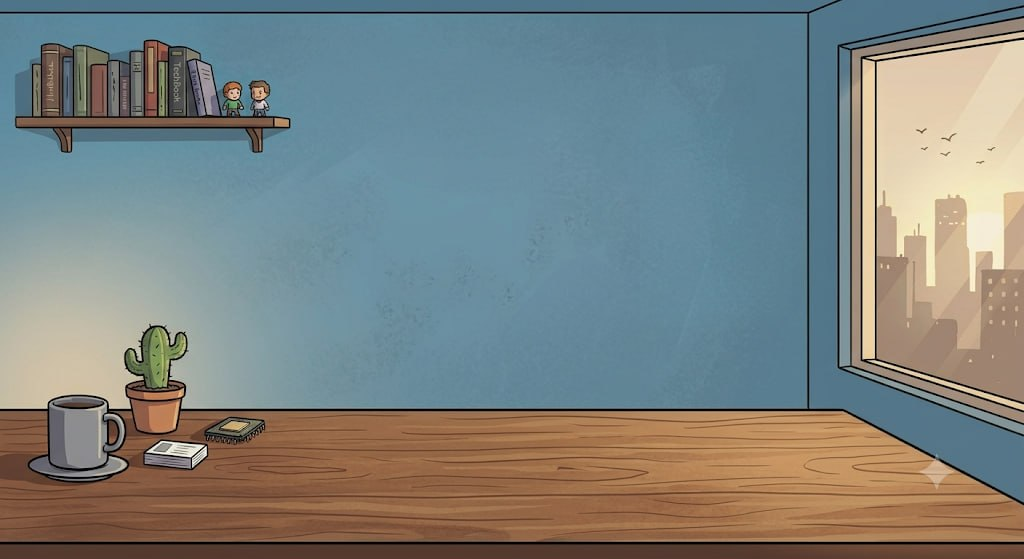
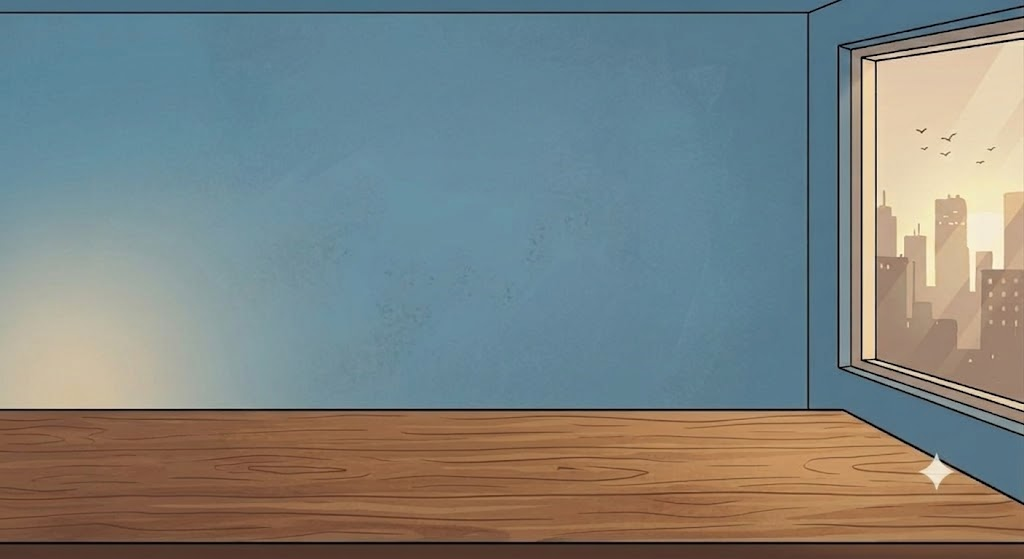
обнове еее

Changed region(s): [[0.0, 0.0608, 0.2812, 0.2737], [0.0, 0.5778, 0.2812, 0.8819], [0.9062, 0.8211, 0.9375, 0.8819]]

diff --git a/testprak/js/game.js b/testprak/js/game.js
@@ -849,7 +849,7 @@ class MainWorkspaceScene extends Phaser.Scene {
 
        // === КАНБАН-ДОСКА (В КОНТЕЙНЕРЕ) ===
         // Чтобы опустить доску еще ниже, увеличь цифру 80. Чтобы поднять — уменьши.
-        const boardContainer = this.add.container(25, 117);
+        const boardContainer = this.add.container(25, 35);
         boardContainer.setScale(0.85); 
 
         let shadowK = this.add.rectangle(235, 225, 380, 250, 0x000000, 0.2); 
@@ -876,17 +876,17 @@ class MainWorkspaceScene extends Phaser.Scene {
         // ===================================
 
         // === ВИЗУАЛ НОВОГО СПРАВОЧНИКА ===
-        const book = this.add.container(300, 610).setDepth(2);
+        const book = this.add.container(150, 610).setDepth(2);
         
         // --- СОЗДАЕМ ТЕНЬ ---
         const bookShadow = this.add.image(6, 8, 'spravochnik'); // Сдвиг (6, 8)
-        bookShadow.setScale(0.5); // Тот же масштаб
+        bookShadow.setScale(0.45); // Тот же масштаб
         bookShadow.setTint(0x000000); 
-        bookShadow.setAlpha(0.35); 
+        bookShadow.setAlpha(0.30); 
         
         // --- САМА КНИГА ---
         const bookImg = this.add.image(0, 0, 'spravochnik');
-        let baseScale = 0.5; 
+        let baseScale = 0.45; 
         bookImg.setScale(baseScale);
         
         // Добавляем тень ПЕРВОЙ в контейнер, чтобы она была под картинкой
@@ -899,17 +899,17 @@ class MainWorkspaceScene extends Phaser.Scene {
         book.input.cursor = 'pointer';
         // ===================================
         // === ВИЗУАЛ НОВОЙ СХЕМЫ СЕТИ ===
-        const networkMap = this.add.container(580, 610).setDepth(2);
+        const networkMap = this.add.container(380, 610).setDepth(2);
         
         // --- СОЗДАЕМ ТЕНЬ ---
         const mapShadow = this.add.image(5, 7, 'shemaseti'); // Сдвиг (5, 7)
-        mapShadow.setScale(0.4);
+        mapShadow.setScale(0.25);
         mapShadow.setTint(0x000000);
-        mapShadow.setAlpha(0.35);
+        mapShadow.setAlpha(0.20);
         
         // --- САМА СХЕМА ---
         const mapImg = this.add.image(0, 0, 'shemaseti');
-        let mapBaseScale = 0.4; 
+        let mapBaseScale = 0.25; 
         mapImg.setScale(mapBaseScale);
         
         // Добавляем тень ПЕРВОЙ в контейнер
@@ -1257,6 +1257,7 @@ class MainWorkspaceScene extends Phaser.Scene {
                     <ul class="book-list">
                         <li><strong>Proxy:</strong> служит для раздачи интернета пользователям.</li>
                         <li style="color: #ff8a65;"><strong>Внимание:</strong> Если не установлен или не запущен антивирус Касперского на рабочей станции, доступ к интернету прекращается.</li>
+                        <li><strong>SSH-доступ:</strong> Для входа по ssh на компьютеры пользователей используется учётная запись <code>admin</code>.</li>
                     </ul>
                 </div>
                 <div class="book-section" style="border-left-color: #ff8a65;">
